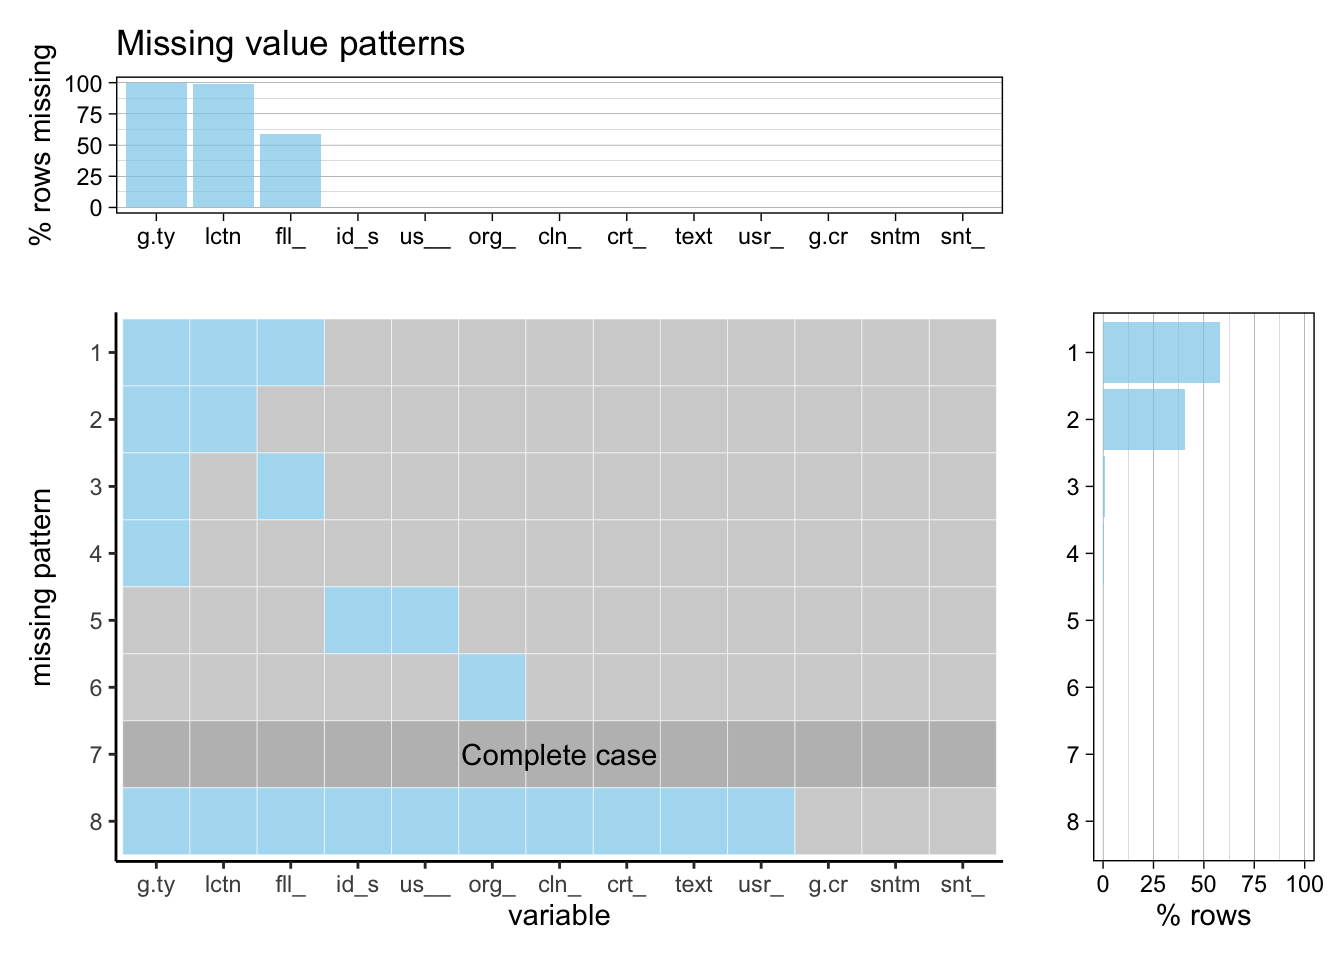
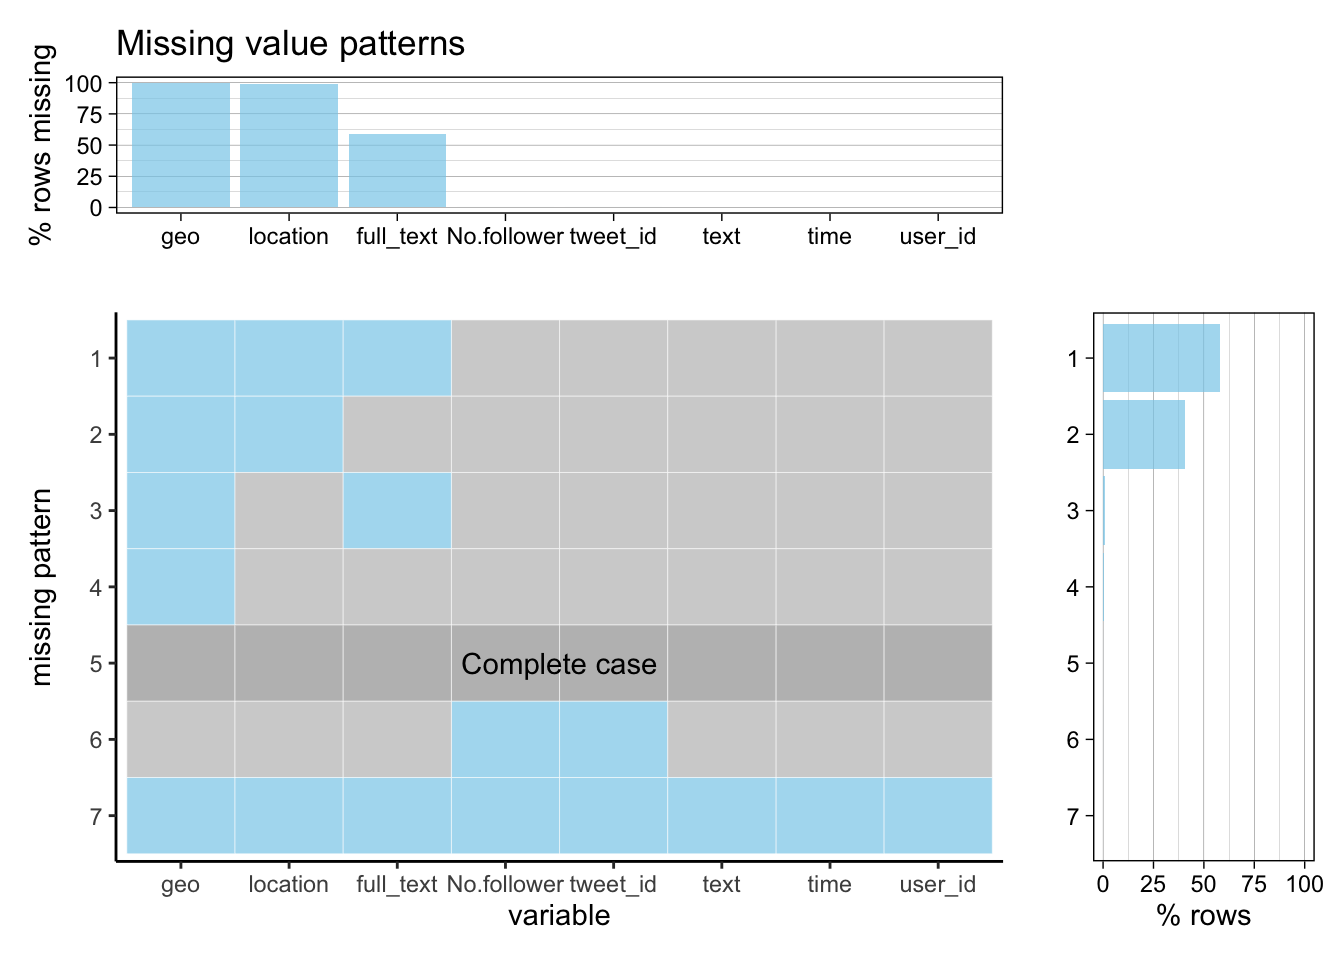
missing value update

diff --git a/docs/missing-values.html b/docs/missing-values.html
@@ -24,7 +24,7 @@
 <meta name="author" content="Anni Chen, Zehui Wu, Senqi Zhang" />
 
 
-<meta name="date" content="2021-12-07" />
+<meta name="date" content="2021-12-08" />
 
   <meta name="viewport" content="width=device-width, initial-scale=1" />
   <meta name="apple-mobile-web-app-capable" content="yes" />
@@ -82,9 +82,9 @@
 <li class="chapter" data-level="3" data-path="data-transformation.html"><a href="data-transformation.html"><i class="fa fa-check"></i><b>3</b> Data transformation</a>
 <ul>
 <li class="chapter" data-level="3.1" data-path="data-transformation.html"><a href="data-transformation.html#feature-selection"><i class="fa fa-check"></i><b>3.1</b> Feature Selection</a></li>
-<li class="chapter" data-level="3.2" data-path="data-transformation.html"><a href="data-transformation.html#extract-words"><i class="fa fa-check"></i><b>3.2</b> extract words</a></li>
-<li class="chapter" data-level="3.3" data-path="data-transformation.html"><a href="data-transformation.html#extract-sentiments"><i class="fa fa-check"></i><b>3.3</b> extract sentiments</a></li>
-<li class="chapter" data-level="3.4" data-path="data-transformation.html"><a href="data-transformation.html#dataset-variables-summary"><i class="fa fa-check"></i><b>3.4</b> dataset variables summary</a></li>
+<li class="chapter" data-level="3.2" data-path="data-transformation.html"><a href="data-transformation.html#tokenization"><i class="fa fa-check"></i><b>3.2</b> Tokenization</a></li>
+<li class="chapter" data-level="3.3" data-path="data-transformation.html"><a href="data-transformation.html#sentiment"><i class="fa fa-check"></i><b>3.3</b> Sentiment</a></li>
+<li class="chapter" data-level="3.4" data-path="data-transformation.html"><a href="data-transformation.html#summary-of-added-features"><i class="fa fa-check"></i><b>3.4</b> Summary of added features</a></li>
 </ul></li>
 <li class="chapter" data-level="4" data-path="missing-values.html"><a href="missing-values.html"><i class="fa fa-check"></i><b>4</b> Missing values</a>
 <ul>
@@ -116,11 +116,11 @@
 <h1><span class="header-section-number">Chapter 4</span> Missing values</h1>
 <div id="twitter-dataset" class="section level2" number="4.1">
 <h2><span class="header-section-number">4.1</span> Twitter Dataset</h2>
-<p>By using Tweepy API, we collected tweets data using keywords: “Elon Musk”, “Tesla”, “<span class="citation">@elonmusk</span>” for half a month and decided to pick a continuous 7-day period for the final evaluation.</p>
-<p>Here we use the data collected on 10/28/2021. There are a total of 65,965 tweets. Of all the 8 features we selected, 3 of the them have missing values. They are <code>tweet_loc</code>, <code>user_loc</code>, <code>full_text</code>. The following is a missing value graph presenting missing value distributions and patterns.</p>
+<p>We conducted analysis on the missing values before forming our final dataset. Of all the features, we first choose 8 features to consider. 7 out of the 8 features are introduced in the previous section, and the only feature that we left out is <code>geo</code>. The missing value graph will support our decision. Another thing worth mentioning is that all the added features will not be presented. Since they are dervied from <code>text</code>, and they will not contain any missing value.</p>
+<p>Here we use the whole raw data set containing tweets from October 28th to Novemeber 3rd. There are a total of 471,996 tweets. The following is a missing value graph of our raw dataset. We modified the feature names a bit to make sure the graph is clean.</p>
 <p><img src="finalproj_files/figure-html/unnamed-chunk-27-1.png" width="672" /></p>
-<p>As shown in the graph, the <code>tweet_loc</code> column has the most missing values which only contains 4 valid values in total. By data description, it indicates that Twitter users seldom specify details about the location tagged in the Tweet. Another largely missing data column is <code>user_loc</code> with 683 valid values. <code>user_loc</code> is a self-identified location by the user, and is has the format like ‘Manhattan, NY’. We think the result is intuitive as users tend not to share private geological information. The missing value in <code>text</code> is interesting. <code>text</code> can only holds up to 140 character and if a tweet exceeds the limit, <code>full_text</code> is the feature that will capture the complete contents. We see that around half of the users write short text when post tweets related to Elon Musk.</p>
-<p>Looking at the missing patterns. About half of the tweets are missing <code>tweet_loc</code> and <code>user_loc</code>, and the other half has additional missing value in <code>full_text</code>. The other two missing patterns are trivial. Overall, we are aware of the fact that most of tweet_loc and user_loc features are missing. Geological analysis might not be plausible as of the high percentage of the missing values. However, we are still interested in finding the possible correlation between the missingness and sentiment of the text, or if it is related to the length of the text.</p>
+<p>As shown in the graph, the <code>geo</code> feature has the most missing values that is close to 100%. From the documentation, <code>geo</code> is the tweet location that is tagged by the user. It indicates that Twitter users seldom specify a location for tweets. Because of the high missing percentage, we choose to remove the feature. Another largely missing data column is <code>user_loc</code> with 5241 valid values. <code>user_loc</code> is a self-identified location by the user, and is has the format like ‘Manhattan, NY’. We think that we will be able to derive some geological pattern based on the limited data we have. The missing value in <code>text</code> is interesting. <code>text</code> can only holds up to 140 character and if a tweet exceeds the limit, <code>full_text</code> is the feature that will capture the complete contents. We see that around half of the users write short text when post tweets related to Elon Musk.</p>
+<p>Looking at the missing patterns. More than a half of the tweets are missing <code>tweet_loc</code> and <code>user_loc</code>, and around 46% of the tweets have additional missing value in <code>full_text</code>. The other three missing patterns are trivial. We do notice that there is a missing pattern that has missing value in every feature. We found out that it was a empty row in our dataset and we removed that row manually.</p>
 
 </div>
 </div>

diff --git a/docs/data-sources.html b/docs/data-sources.html
@@ -24,7 +24,7 @@
 <meta name="author" content="Anni Chen, Zehui Wu, Senqi Zhang" />
 
 
-<meta name="date" content="2021-12-07" />
+<meta name="date" content="2021-12-08" />
 
   <meta name="viewport" content="width=device-width, initial-scale=1" />
   <meta name="apple-mobile-web-app-capable" content="yes" />
@@ -82,9 +82,9 @@
 <li class="chapter" data-level="3" data-path="data-transformation.html"><a href="data-transformation.html"><i class="fa fa-check"></i><b>3</b> Data transformation</a>
 <ul>
 <li class="chapter" data-level="3.1" data-path="data-transformation.html"><a href="data-transformation.html#feature-selection"><i class="fa fa-check"></i><b>3.1</b> Feature Selection</a></li>
-<li class="chapter" data-level="3.2" data-path="data-transformation.html"><a href="data-transformation.html#extract-words"><i class="fa fa-check"></i><b>3.2</b> extract words</a></li>
-<li class="chapter" data-level="3.3" data-path="data-transformation.html"><a href="data-transformation.html#extract-sentiments"><i class="fa fa-check"></i><b>3.3</b> extract sentiments</a></li>
-<li class="chapter" data-level="3.4" data-path="data-transformation.html"><a href="data-transformation.html#dataset-variables-summary"><i class="fa fa-check"></i><b>3.4</b> dataset variables summary</a></li>
+<li class="chapter" data-level="3.2" data-path="data-transformation.html"><a href="data-transformation.html#tokenization"><i class="fa fa-check"></i><b>3.2</b> Tokenization</a></li>
+<li class="chapter" data-level="3.3" data-path="data-transformation.html"><a href="data-transformation.html#sentiment"><i class="fa fa-check"></i><b>3.3</b> Sentiment</a></li>
+<li class="chapter" data-level="3.4" data-path="data-transformation.html"><a href="data-transformation.html#summary-of-added-features"><i class="fa fa-check"></i><b>3.4</b> Summary of added features</a></li>
 </ul></li>
 <li class="chapter" data-level="4" data-path="missing-values.html"><a href="missing-values.html"><i class="fa fa-check"></i><b>4</b> Missing values</a>
 <ul>
@@ -114,7 +114,7 @@
             <section class="normal" id="section-">
 <div id="data-sources" class="section level1" number="2">
 <h1><span class="header-section-number">Chapter 2</span> Data sources</h1>
-<p>Our data was collected from Twitter using the Tweepy API. Since we are interested in Elon Musk. We chose the keyword set of “Elon Musk”,“elonmusk”,“<span class="citation">@elonmusk</span>”,“tesla”,“Tesla”. From October 28th to Novemeber 5th, we collected data 9 days in a row. For the purpose of this study, we choose to use data from October 28th to Novemeber 3th, which is a 7-day period. During the period when our program was running, we capture every real-time tweets that contain any of the above keywords. The data is collected in the form of a tweet object, and it contains not only the text of the tweet, but other valuable information worth exploring.</p>
+<p>Our data was collected from Twitter using the Tweepy API. Since we are interested in Elon Musk. We chose the keyword set of “Elon Musk”,“elonmusk”,“<span class="citation">@elonmusk</span>”,“tesla”,“Tesla”. From October 28th to Novemeber 5th, we collected data 9 days in a row. For the purpose of this study, we choose to use data from October 28th to Novemeber 3rd, which is a 7-day period. During the period when our program was running, we capture every real-time tweets that contain any of the above keywords. The data is collected in the form of a tweet object, and it contains not only the text of the tweet, but other valuable information worth exploring.</p>
 <div id="dataset-overview" class="section level2" number="2.1">
 <h2><span class="header-section-number">2.1</span> Dataset overview</h2>
 <p>After combining our dataset, we observed that a total of 471,996 tweets were collected. For a single tweet object, it contains 35 features. Below is a table of the features.</p>

diff --git a/docs/index.html b/docs/index.html
@@ -24,7 +24,7 @@
 <meta name="author" content="Anni Chen, Zehui Wu, Senqi Zhang" />
 
 
-<meta name="date" content="2021-12-07" />
+<meta name="date" content="2021-12-08" />
 
   <meta name="viewport" content="width=device-width, initial-scale=1" />
   <meta name="apple-mobile-web-app-capable" content="yes" />
@@ -82,9 +82,9 @@
 <li class="chapter" data-level="3" data-path="data-transformation.html"><a href="data-transformation.html"><i class="fa fa-check"></i><b>3</b> Data transformation</a>
 <ul>
 <li class="chapter" data-level="3.1" data-path="data-transformation.html"><a href="data-transformation.html#feature-selection"><i class="fa fa-check"></i><b>3.1</b> Feature Selection</a></li>
-<li class="chapter" data-level="3.2" data-path="data-transformation.html"><a href="data-transformation.html#extract-words"><i class="fa fa-check"></i><b>3.2</b> extract words</a></li>
-<li class="chapter" data-level="3.3" data-path="data-transformation.html"><a href="data-transformation.html#extract-sentiments"><i class="fa fa-check"></i><b>3.3</b> extract sentiments</a></li>
-<li class="chapter" data-level="3.4" data-path="data-transformation.html"><a href="data-transformation.html#dataset-variables-summary"><i class="fa fa-check"></i><b>3.4</b> dataset variables summary</a></li>
+<li class="chapter" data-level="3.2" data-path="data-transformation.html"><a href="data-transformation.html#tokenization"><i class="fa fa-check"></i><b>3.2</b> Tokenization</a></li>
+<li class="chapter" data-level="3.3" data-path="data-transformation.html"><a href="data-transformation.html#sentiment"><i class="fa fa-check"></i><b>3.3</b> Sentiment</a></li>
+<li class="chapter" data-level="3.4" data-path="data-transformation.html"><a href="data-transformation.html#summary-of-added-features"><i class="fa fa-check"></i><b>3.4</b> Summary of added features</a></li>
 </ul></li>
 <li class="chapter" data-level="4" data-path="missing-values.html"><a href="missing-values.html"><i class="fa fa-check"></i><b>4</b> Missing values</a>
 <ul>
@@ -115,7 +115,7 @@
 <div id="header">
 <h1 class="title">Analyzing emotions towards Elon Musk on Twitter</h1>
 <p class="author"><em>Anni Chen, Zehui Wu, Senqi Zhang</em></p>
-<p class="date"><em>2021-12-07</em></p>
+<p class="date"><em>2021-12-08</em></p>
 </div>
 <div id="introduction" class="section level1" number="1">
 <h1><span class="header-section-number">Chapter 1</span> Introduction</h1>

diff --git a/docs/conclusion.html b/docs/conclusion.html
@@ -24,7 +24,7 @@
 <meta name="author" content="Anni Chen, Zehui Wu, Senqi Zhang" />
 
 
-<meta name="date" content="2021-12-07" />
+<meta name="date" content="2021-12-08" />
 
   <meta name="viewport" content="width=device-width, initial-scale=1" />
   <meta name="apple-mobile-web-app-capable" content="yes" />
@@ -82,9 +82,9 @@
 <li class="chapter" data-level="3" data-path="data-transformation.html"><a href="data-transformation.html"><i class="fa fa-check"></i><b>3</b> Data transformation</a>
 <ul>
 <li class="chapter" data-level="3.1" data-path="data-transformation.html"><a href="data-transformation.html#feature-selection"><i class="fa fa-check"></i><b>3.1</b> Feature Selection</a></li>
-<li class="chapter" data-level="3.2" data-path="data-transformation.html"><a href="data-transformation.html#extract-words"><i class="fa fa-check"></i><b>3.2</b> extract words</a></li>
-<li class="chapter" data-level="3.3" data-path="data-transformation.html"><a href="data-transformation.html#extract-sentiments"><i class="fa fa-check"></i><b>3.3</b> extract sentiments</a></li>
-<li class="chapter" data-level="3.4" data-path="data-transformation.html"><a href="data-transformation.html#dataset-variables-summary"><i class="fa fa-check"></i><b>3.4</b> dataset variables summary</a></li>
+<li class="chapter" data-level="3.2" data-path="data-transformation.html"><a href="data-transformation.html#tokenization"><i class="fa fa-check"></i><b>3.2</b> Tokenization</a></li>
+<li class="chapter" data-level="3.3" data-path="data-transformation.html"><a href="data-transformation.html#sentiment"><i class="fa fa-check"></i><b>3.3</b> Sentiment</a></li>
+<li class="chapter" data-level="3.4" data-path="data-transformation.html"><a href="data-transformation.html#summary-of-added-features"><i class="fa fa-check"></i><b>3.4</b> Summary of added features</a></li>
 </ul></li>
 <li class="chapter" data-level="4" data-path="missing-values.html"><a href="missing-values.html"><i class="fa fa-check"></i><b>4</b> Missing values</a>
 <ul>

diff --git a/docs/interactive-component.html b/docs/interactive-component.html
@@ -24,7 +24,7 @@
 <meta name="author" content="Anni Chen, Zehui Wu, Senqi Zhang" />
 
 
-<meta name="date" content="2021-12-07" />
+<meta name="date" content="2021-12-08" />
 
   <meta name="viewport" content="width=device-width, initial-scale=1" />
   <meta name="apple-mobile-web-app-capable" content="yes" />
@@ -82,9 +82,9 @@
 <li class="chapter" data-level="3" data-path="data-transformation.html"><a href="data-transformation.html"><i class="fa fa-check"></i><b>3</b> Data transformation</a>
 <ul>
 <li class="chapter" data-level="3.1" data-path="data-transformation.html"><a href="data-transformation.html#feature-selection"><i class="fa fa-check"></i><b>3.1</b> Feature Selection</a></li>
-<li class="chapter" data-level="3.2" data-path="data-transformation.html"><a href="data-transformation.html#extract-words"><i class="fa fa-check"></i><b>3.2</b> extract words</a></li>
-<li class="chapter" data-level="3.3" data-path="data-transformation.html"><a href="data-transformation.html#extract-sentiments"><i class="fa fa-check"></i><b>3.3</b> extract sentiments</a></li>
-<li class="chapter" data-level="3.4" data-path="data-transformation.html"><a href="data-transformation.html#dataset-variables-summary"><i class="fa fa-check"></i><b>3.4</b> dataset variables summary</a></li>
+<li class="chapter" data-level="3.2" data-path="data-transformation.html"><a href="data-transformation.html#tokenization"><i class="fa fa-check"></i><b>3.2</b> Tokenization</a></li>
+<li class="chapter" data-level="3.3" data-path="data-transformation.html"><a href="data-transformation.html#sentiment"><i class="fa fa-check"></i><b>3.3</b> Sentiment</a></li>
+<li class="chapter" data-level="3.4" data-path="data-transformation.html"><a href="data-transformation.html#summary-of-added-features"><i class="fa fa-check"></i><b>3.4</b> Summary of added features</a></li>
 </ul></li>
 <li class="chapter" data-level="4" data-path="missing-values.html"><a href="missing-values.html"><i class="fa fa-check"></i><b>4</b> Missing values</a>
 <ul>

diff --git a/docs/results.html b/docs/results.html
@@ -24,7 +24,7 @@
 <meta name="author" content="Anni Chen, Zehui Wu, Senqi Zhang" />
 
 
-<meta name="date" content="2021-12-07" />
+<meta name="date" content="2021-12-08" />
 
   <meta name="viewport" content="width=device-width, initial-scale=1" />
   <meta name="apple-mobile-web-app-capable" content="yes" />
@@ -82,9 +82,9 @@
 <li class="chapter" data-level="3" data-path="data-transformation.html"><a href="data-transformation.html"><i class="fa fa-check"></i><b>3</b> Data transformation</a>
 <ul>
 <li class="chapter" data-level="3.1" data-path="data-transformation.html"><a href="data-transformation.html#feature-selection"><i class="fa fa-check"></i><b>3.1</b> Feature Selection</a></li>
-<li class="chapter" data-level="3.2" data-path="data-transformation.html"><a href="data-transformation.html#extract-words"><i class="fa fa-check"></i><b>3.2</b> extract words</a></li>
-<li class="chapter" data-level="3.3" data-path="data-transformation.html"><a href="data-transformation.html#extract-sentiments"><i class="fa fa-check"></i><b>3.3</b> extract sentiments</a></li>
-<li class="chapter" data-level="3.4" data-path="data-transformation.html"><a href="data-transformation.html#dataset-variables-summary"><i class="fa fa-check"></i><b>3.4</b> dataset variables summary</a></li>
+<li class="chapter" data-level="3.2" data-path="data-transformation.html"><a href="data-transformation.html#tokenization"><i class="fa fa-check"></i><b>3.2</b> Tokenization</a></li>
+<li class="chapter" data-level="3.3" data-path="data-transformation.html"><a href="data-transformation.html#sentiment"><i class="fa fa-check"></i><b>3.3</b> Sentiment</a></li>
+<li class="chapter" data-level="3.4" data-path="data-transformation.html"><a href="data-transformation.html#summary-of-added-features"><i class="fa fa-check"></i><b>3.4</b> Summary of added features</a></li>
 </ul></li>
 <li class="chapter" data-level="4" data-path="missing-values.html"><a href="missing-values.html"><i class="fa fa-check"></i><b>4</b> Missing values</a>
 <ul>

diff --git a/docs/404.html b/docs/404.html
@@ -24,7 +24,7 @@
 <meta name="author" content="Anni Chen, Zehui Wu, Senqi Zhang" />
 
 
-<meta name="date" content="2021-12-07" />
+<meta name="date" content="2021-12-08" />
 
   <meta name="viewport" content="width=device-width, initial-scale=1" />
   <meta name="apple-mobile-web-app-capable" content="yes" />

diff --git a/docs/data-transformation.html b/docs/data-transformation.html
@@ -24,7 +24,7 @@
 <meta name="author" content="Anni Chen, Zehui Wu, Senqi Zhang" />
 
 
-<meta name="date" content="2021-12-07" />
+<meta name="date" content="2021-12-08" />
 
   <meta name="viewport" content="width=device-width, initial-scale=1" />
   <meta name="apple-mobile-web-app-capable" content="yes" />
